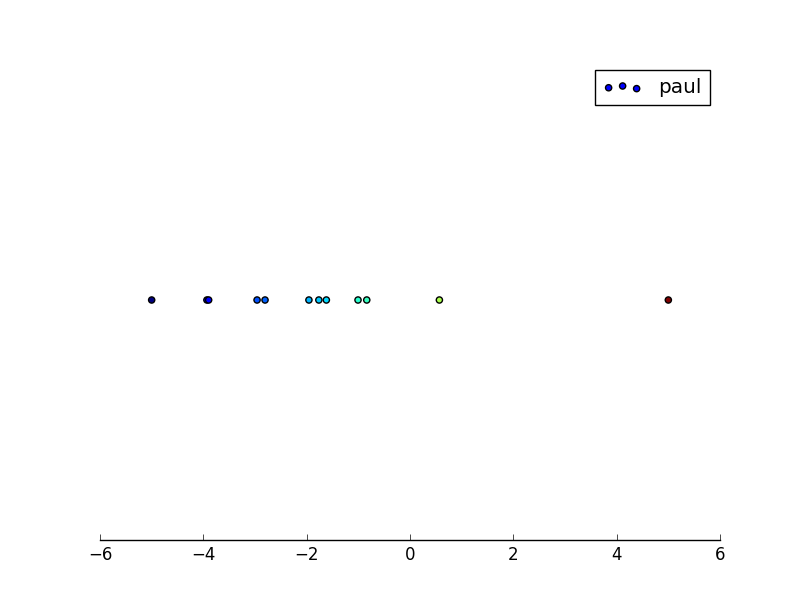
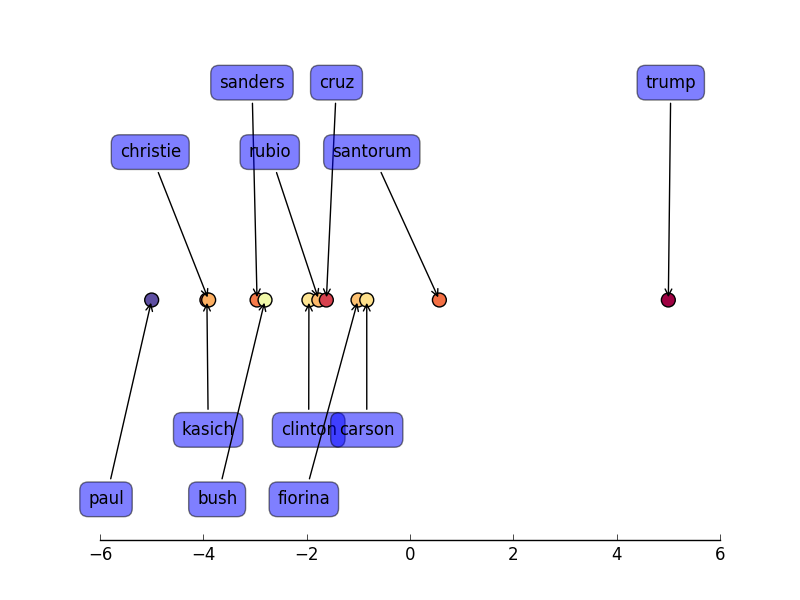
no message

diff --git a/src/sentiment.py b/src/sentiment.py
@@ -51,8 +51,32 @@ def show(data_dirs=_data_dirs):
     # this makes a flat line for each candidates average sentiment. we might want to plot this
     values = np.asarray(data_).mean(axis=0)
     values = (((5 + 5) * (values - values.min())) / (values.max() - values.min())) - 5
-    x_ = sorted(range(values.size), key=lambda n: values[n])
-    
+    x_ = sorted(range(values.size), key=lambda n_: values[n_])
+    ax = plt.axes()
+    ax.scatter(values[x_], [.5] * len(x_), c=values, s=100, cmap=plt.get_cmap('Spectral'))
+
+    xytext_locs = [(x, y) for x, y in zip([-20, 20] * (len(cand_ids) // 2), [-150, -100, 100, 150] * (len(cand_ids) // 4))]
+
+    for (label, x), xytext in zip(zip(np.asarray(cand_ids)[x_], values[x_]), xytext_locs):
+        plt.annotate(
+            label,
+            xy=(x, .5), xytext=xytext,
+            textcoords='offset points', ha='right', va='bottom',
+            bbox=dict(boxstyle='round,pad=0.5', fc='blue', alpha=.5),
+            arrowprops=dict(arrowstyle='->', connectionstyle='arc3,rad=0')
+        )
+
+
+    ax.yaxis.set_visible(False)
+    ax.spines['right'].set_visible(False)
+    ax.spines['left'].set_visible(False)
+    ax.spines['top'].set_visible(False)
+    ax.xaxis.set_ticks_position('bottom')
+    ax.get_yaxis().set_ticklabels([])
+    plt.savefig('../results/sentiment_flat.png')
+    plt.clf()
+
+
     # plot each candidates sentiment line
     df = pd.DataFrame(data_, columns=cand_ids, index=cand_ids)
     ax = df.plot(colormap='Set1', figsize=(16, 10), title='Candidate Sentiments')
@@ -64,6 +88,16 @@ def show(data_dirs=_data_dirs):
     ax.set_position([box.x0, box.y0, box.width * 0.8, box.height])
     plt.legend(loc='center left', bbox_to_anchor=(1, 0.5), fancybox=True, shadow=True, ncol=1)
     plt.savefig('../results/sentiment.png')
+    plt.clf()
+    ax = df.plot.bar(colormap='Set1', figsize=(16, 10), title='Candidate Sentiments')
+    ax.set_xlabel('candidate')
+    ax.set_ylabel('sentiment')
+    ax.set_xticks(np.arange(len(cand_ids)))
+    ax.set_xticklabels(cand_ids)
+    box = ax.get_position()
+    ax.set_position([box.x0, box.y0, box.width * 0.8, box.height])
+    plt.legend(loc='center left', bbox_to_anchor=(1, 0.5), fancybox=True, shadow=True, ncol=1)
+    plt.savefig('../results/sentiment_bar.png')
     plt.clf()
 
     X = []
